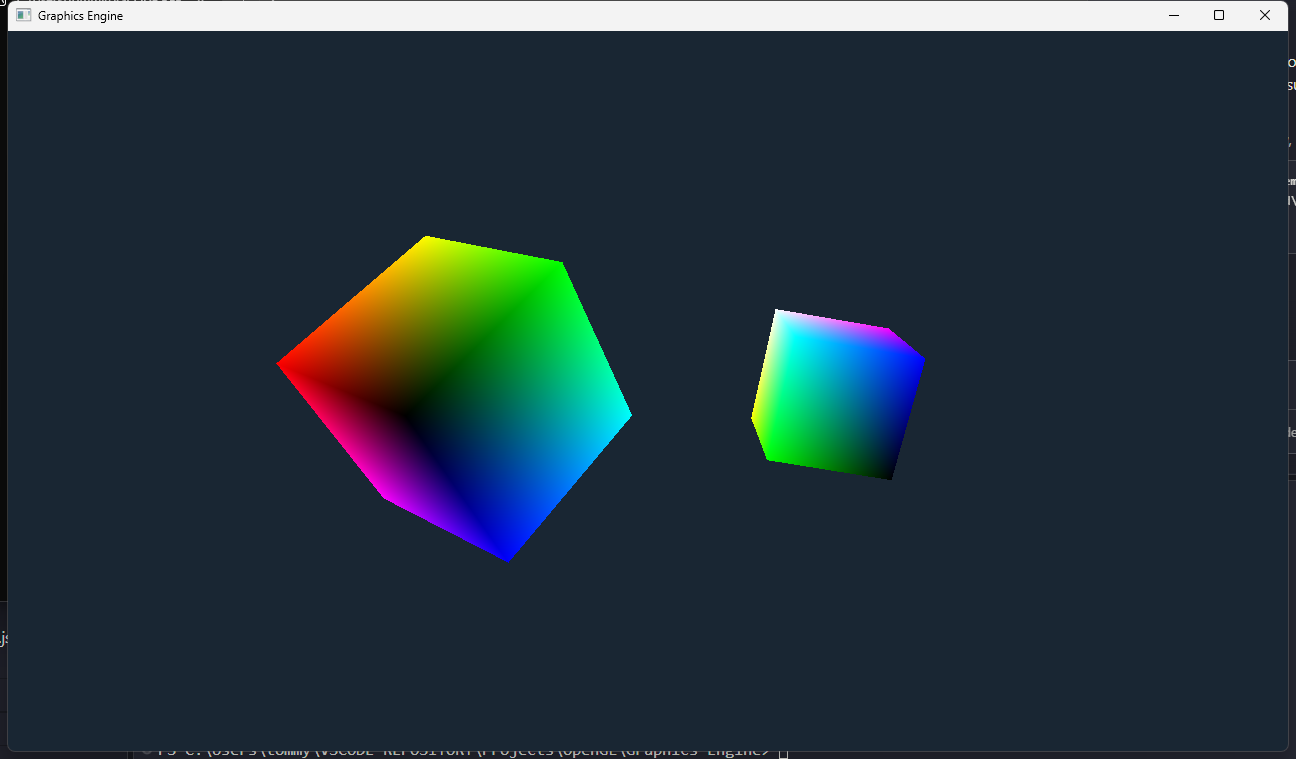
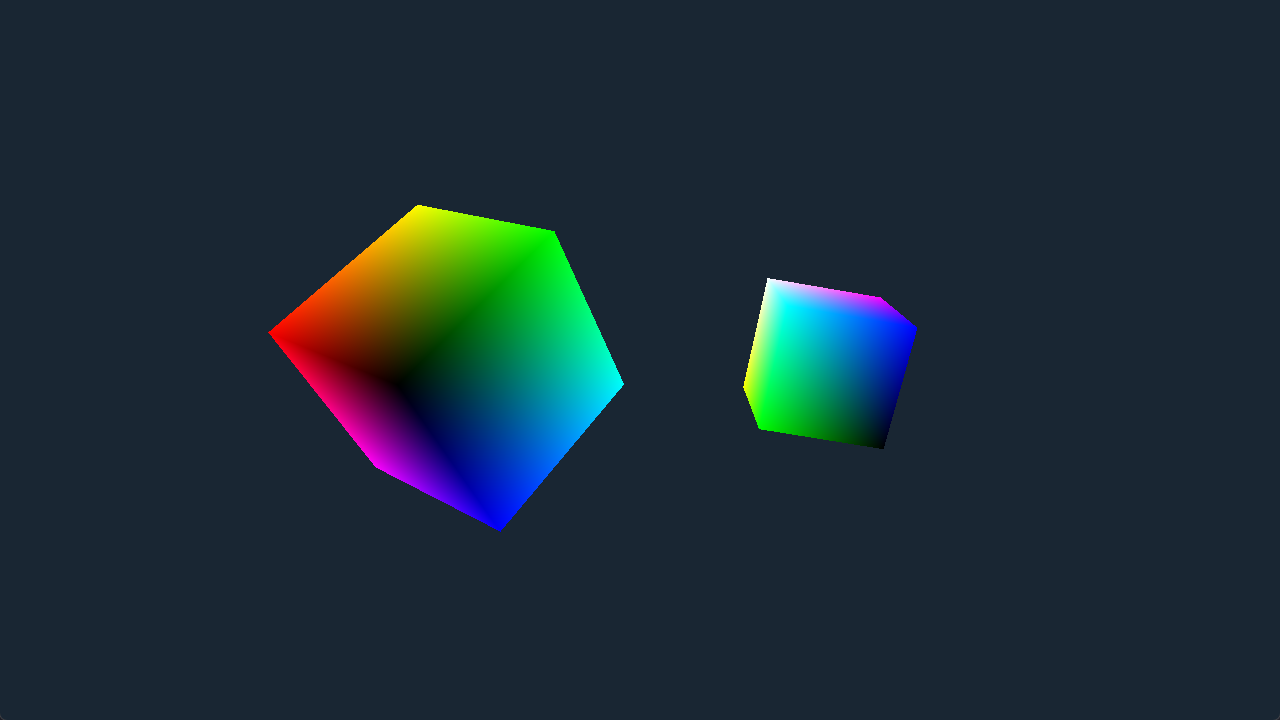
Docs: add transform and orbit camera screenshots to README.
- Add Transforms and Orbit Camera (before/after) entries to Screenshots
- Crop screenshots to the 1280x720 render area (remove window chrome)
- Add m3_before.png

diff --git a/README.md b/README.md
@@ -63,6 +63,29 @@ Application
   
 </details>
 
+### Transforms
+
+<details>
+  <summary></summary>
+  
+  One indexed cube mesh drawn twice with different model matrices, under a perspective projection.
+
+  <img src="docs/images/m2.png" width="400" alt="Two rotating cubes rendered with model/view/projection transforms">
+  
+</details>
+
+### Orbit Camera
+
+<details>
+  <summary></summary>
+  
+  Default view of the ground grid (red X axis, blue Z axis), then after a left-drag orbit and scroll zoom.
+
+  <img src="docs/images/m3_before.png" width="400" alt="Orbit camera default view of two cubes on a ground grid">
+  <img src="docs/images/m3_after.png" width="400" alt="Orbit camera after orbiting and zooming in">
+  
+</details>
+
 ---
 
 ## Planned Roadmap
